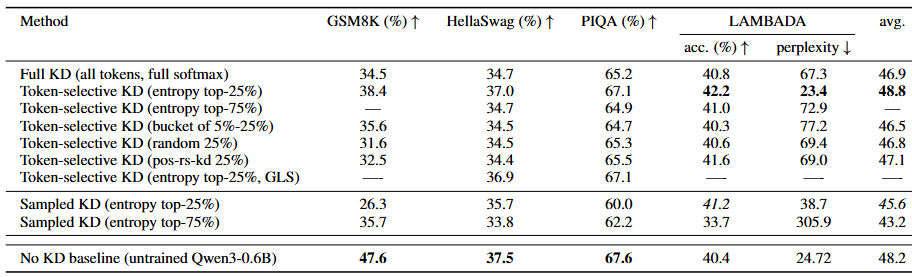
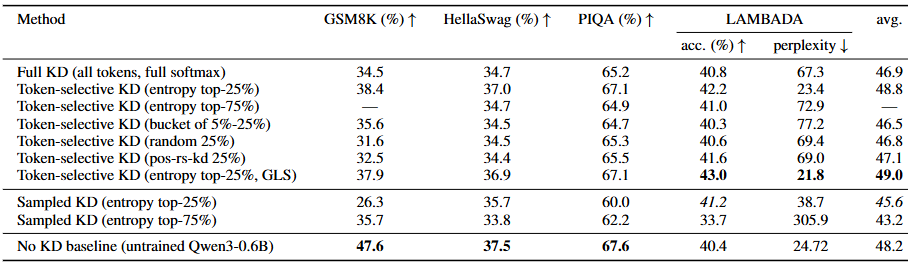
chore: update results after GLS  re-runs accuracy beat

Changed region(s): [[0.0, 0.0, 1.0, 1.0]]

diff --git a/written/nlp_paper.tex b/written/nlp_paper.tex
@@ -263,9 +263,9 @@ $A\!\leftarrow\!A+x_tx_t^\top,\; b\!\leftarrow\!b+r_tx_t$.
 If too few have been selected, we take the highest-$s_t$ tokens up to the allowed budget.
 
 \subsection{GLS (Global-Level Selection) for Position Selection}
-We maintain a global FIFO queue of recent token scores across batches.  
-At each step we set a threshold $\tau$ at the $(1-\tfrac{k\%}{100})$ percentile of this history,  
-All current positions with score $\ge\tau$ are selected; during warm-up we fall back to per-example top-$k$.  
+We maintain a global FIFO queue of recent token scores across batches.
+At each step we set a threshold $\tau$ at the $(1-\tfrac{k\%}{100})$ percentile of this history,
+All current positions with score $\ge\tau$ are selected; during warm-up we fall back to per-example top-$k$.
 This way, roughly $k\%$ of tokens are always kept, giving a stable acceptance rate and reducing variance across batches, instead of selecting top-$k$ tokens per batch.
 
 % \section{Entropy Approximation and Gumbel Trick}
@@ -282,7 +282,7 @@ We compute entropy in nats (natural logarithm) and 8-bit quantization.
 Order indices so that $u_{(1)} \geq \cdots \geq u_{(m)}$ are the top-$m$ logits.
 Define the top-$m$ log-partition and an upper bound on the full log-partition by
 \begin{align*}
-	Z_m \;           & =\; \log \sum_{j \leq m} e^{u_{(j)}},            \\
+	Z_m \;           & =\; \log \sum_{j \leq m} e^{u_{(j)}},           \\
 	Z_{\text{ub}} \; & =\; \log\Big(e^{Z_m} + (V-m)\,e^{u_{(m)}}\Big).
 \end{align*}
 i.e., pessimistically setting all tail logits to $u_{(m)}$. For $j\le m$ this yields conservative probabilities:
@@ -359,7 +359,7 @@ This yields $3.7$ TB for $N{=}10^{11}{=}100$B tokens. Compared to a vanilla RS-K
 If the selection strategy is fixed and deterministic (e.g., top-$k$ by entropy chosen offline), we can omit $\hat H$ entirely and retain only RS-KD samples at the selected positions. This slashes storage by the selection rate $k$: with $k{=}0.25$,
 \begin{align*}
 	\text{B}/\text{token} \; & =\; k \cdot U \cdot 3
-	\;=\; 0.25 \cdot 12 \cdot 3                                                               \\
+	\;=\; 0.25 \cdot 12 \cdot 3                                                              \\
 	\;                       & =\; 9~\text{B}/\text{token} \ \Longrightarrow\ 0.9~\text{TB}.
 \end{align*}
 We implemented this optimized layout, but retained the full cache for our ablations so that we can ablate different position-selection policies at training time without rebuilding the cache. The one-time offline preselection is straightforward and yields a major reduction when $k$ is small.
@@ -398,8 +398,7 @@ To address the high perplexity observed when training on longer sequences, we fu
 \subsection{Experimental setup}
 
 All experiments report pass@1 accuracy, measuring the percentage of problems solved correctly on the first attempt without sampling multiple outputs.
-We have evaluated the GLS policy with a queue size of $30K$ tokens, as reported to be optimal by the experiments of \citet{wang2021selectivekd}.
-That said, \citep{wang2021selectivekd} focused on CE-based selection, and we found that GLS was a bit less successful for entropy-based selection than batch top-k, even though the results were fairly close and might change when scaled.
+We have evaluated the GLS policy with a queue size of $30K$ tokens, as reported to be optimal by the experiments of \citet{wang2021selectivekd} (that have been focused on CE-based selection).
 \citep{wang2021selectivekd} have reported $50K$ to be successful too, which we did not test.
 
 \section{Main Results}
@@ -410,21 +409,20 @@ That said, \citep{wang2021selectivekd} focused on CE-based selection, and we fou
 	\setlength{\tabcolsep}{8pt}
 	\begin{tabular}{lcccccc}
 		\toprule
-		Method                                              & GSM8K (\%) $\uparrow$ & HellaSwag (\%) $\uparrow$ & PIQA (\%) $\uparrow$ & \multicolumn{2}{c}{LAMBADA} & avg. \\
+		Method                                     & GSM8K (\%) $\uparrow$ & HellaSwag (\%) $\uparrow$ & PIQA (\%) $\uparrow$ & \multicolumn{2}{c}{LAMBADA} & avg.                                    \\
 		\cmidrule(lr){5-6}
-        & & & & acc. (\%) $\uparrow$ & perplexity $\downarrow$ \\
+		                                           &                       &                           &                      & acc. (\%) $\uparrow$        & perplexity $\downarrow$                 \\
 		\midrule
-		Full KD (all tokens, full softmax)                  & 34.5                  & 34.7                      & 65.2                 & 40.8                    & 67.3 & 46.9 \\
-		Token-selective KD (entropy top-25\%)               & 38.4                  & 37.0                      & 67.1                 & \textbf{42.2}           & \textbf{23.4} & \textbf{48.8} \\
-		Token-selective KD (entropy top-75\%)               & ---                   & 34.7                      & 64.9                 & 41.0                    & 72.9 & --- \\
-		Token-selective KD (bucket of 5\%-25\%)             & 35.6                  & 34.5             			& 64.7                 & 40.3                    & 77.2 & 46.5 \\
-		Token-selective KD (random 25\%)                    & 31.6                  & 34.5                      & 65.3                 & 40.6                    & 69.4 & 46.8 \\
-		Token-selective KD (pos-rs-kd 25\%)                 & 32.5                  & 34.4                      & 65.5                 & 41.6           & 69.0 & 47.1 \\
-		Token-selective KD (entropy top-25\%, GLS)          & ----                  & 36.9                      & 67.1                 & ----           & ---- & ---- \\
+		Full KD (all tokens, full softmax)         & 34.5                  & 34.7                      & 65.2                 & 40.8                        & 67.3                    & 46.9          \\
+		Token-selective KD (entropy top-25\%)      & 38.4                  & 37.0                      & 67.1                 & 42.2                        & 23.4                    & 48.8          \\
+		Token-selective KD (entropy top-75\%)      & ---                   & 34.7                      & 64.9                 & 41.0                        & 72.9                    & ---           \\
+		Token-selective KD (bucket of 5\%-25\%)    & 35.6                  & 34.5                      & 64.7                 & 40.3                        & 77.2                    & 46.5          \\
+		Token-selective KD (random 25\%)           & 31.6                  & 34.5                      & 65.3                 & 40.6                        & 69.4                    & 46.8          \\
+		Token-selective KD (pos-rs-kd 25\%)        & 32.5                  & 34.4                      & 65.5                 & 41.6                        & 69.0                    & 47.1          \\
+		Token-selective KD (entropy top-25\%, GLS) & 37.9                  & 36.9                      & 67.1                 & \textbf{43.0}               & \textbf{21.8}           & \textbf{49.0} \\
 		\midrule
-		Sampled KD (entropy top-25\%)                 		& 26.3                  & 35.7                      & 60.0                 & \textit{41.2}           		 & 38.7 & \textit{45.6} \\
-		Sampled KD (entropy top-75\%)                 		& 35.7                  & 33.8                      & 62.2                 & 33.7           		 & 305.9 & 43.2 \\
-		\midrule
+		Sampled KD (entropy top-25\%)              & 26.3                  & 35.7                      & 60.0                 & \textit{41.2}               & 38.7                    & \textit{45.6} \\
+		Sampled KD (entropy top-75\%)              & 35.7                  & 33.8                      & 62.2                 & 33.7                        & 305.9                   & 43.2          \\
 		% Sampled KD (top-75\%), softmax-elim      			& 27.3                  & 31.2                      & 59.8                 & 24.5                  	 & 2029 & 38.5 \\
 		% Sampled KD (pos-rs-kd-25\%), softmax-elim			& 23.7                  & 31.4                      & 60.6                 & 23.1                  	 & 2336 & 38.4 \\
 
@@ -436,7 +434,7 @@ That said, \citep{wang2021selectivekd} focused on CE-based selection, and we fou
 		% \quad $k=25\%$, distilled on GSM8K train split      & \textbf{41.2}         & ---                       & ---                  & ---                   &---   & \\
 		% \quad LinUCB model as selector                      & 22.0                  & 27.1                      & 52.5                 & 7.6                   &---   & \\
 		\midrule
-		No KD baseline (untrained Qwen3-0.6B)               & \textbf{47.6}         & \textbf{37.5}             & \textbf{67.6}        & 40.4                    & 24.72 & 48.2\\
+		No KD baseline (untrained Qwen3-0.6B)      & \textbf{47.6}         & \textbf{37.5}             & \textbf{67.6}        & 40.4                        & 24.72                   & 48.2          \\
 		\bottomrule
 	\end{tabular}
 	\caption{Main reasoning results (zero-shot). Models are pretrained on FineWeb-Edu 4M tokens ($\sim 22K$ examples); we report pass@1 (\%) for GSM8K and HellaSwag, accuracy (\%) for PIQA and LAMBADA.
@@ -449,7 +447,7 @@ That said, \citep{wang2021selectivekd} focused on CE-based selection, and we fou
 
 \subsection{Discussion}
 \label{sec:discussion}
-We ablated token position selection for a 0.6B student across score functions (entropy and a combined score with teacher-student KL), top-$k$ and percentile rules, positional RS-KD, LinUCB and global/local selection (GLS). 
+We ablated token position selection for a 0.6B student across score functions (entropy and a combined score with teacher-student KL), top-$k$ and percentile rules, positional RS-KD, LinUCB and global/local selection (GLS).
 
 On average, token-selective KD (TSKD) matches or exceeds both full KD and the no-KD baseline, with the clearest gains on LAMBADA (accuracy and perplexity) and competitive results on PIQA and HellaSwag; math benchmark GSM8K is understandably the most challenging, since Fineweb is not a Math dataset.
 Results show non-trivial variance across selection rules, but the strongest TSKD settings are consistently better than full KD at similar compute.
@@ -505,7 +503,7 @@ We attribute the gap to: limited training budget (4M FineWeb-Edu tokens), predom
 FineWeb-Edu also mixes diverse domains, which is a poor match for math-reasoning tasks such as GSM8K, where degradation is most pronounced.
 
 \subsection{Future work}
-Other than the said enhancements (larger scale, full precision), we see several additional promising directions to close the gap for SampledKD: 
+Other than the said enhancements (larger scale, full precision), we see several additional promising directions to close the gap for SampledKD:
 (1) Curriculum learning based knowledge distillation for and stability, so that the model can gradually adapt to more challenging tasks, implemented according to token entropy; (2) a short speculative on-policy distillation phase after off-policy SampledKD---to re-balance calibration once accuracy has improved, leveraging SKD/GKD-style teacher feedback on student prefixes \citep{xu2024speculative}.
 
 From a computational perspective, each student distillation step in TSKD still requires a full softmax and significant runtime, for both the KLD and CE.
@@ -561,10 +559,10 @@ And taking \(\mathbb{E}_x\) over dataset distribution of \(x\) yields \(\mathcal
 	 & = \frac{1}{N K_{\text{pos}}}\sum_{k=1}^{K_{\text{pos}}}
 	\mathbb{E}_{t_k\sim q_{\text{pos}}}\!\left[
 		\frac{\mathrm{KL}(p_{t_k}\|s_{t_k})}{q_{\text{pos}}(t_k)}
-	\right]                                                     \\
+	\right]                                                    \\
 	 & = \frac{1}{N K_{\text{pos}}}\sum_{k=1}^{K_{\text{pos}}}
-	\sum_{t\in P_x}\mathrm{KL}(p_t\|s_t)                        \\
-	 & = \frac{1}{N}\sum_{t\in P_x}\mathrm{KL}(p_t\|s_t)        \\
+	\sum_{t\in P_x}\mathrm{KL}(p_t\|s_t)                       \\
+	 & = \frac{1}{N}\sum_{t\in P_x}\mathrm{KL}(p_t\|s_t)       \\
 	 & =\mathcal{L}_{\text{KD}}.
 \end{align*}
 
@@ -584,7 +582,7 @@ Define the total tail probability mass $P_T=\sum_{v\in T}p_v$, and $q(v)=p_v/P_T
 Decompose with the uniform tail $u=\tfrac{P_T}{V-m}$:
 \begin{align*}
 	\sum_{v\in T} p_v \log p_v
-	 & = -P_T\log\!\frac{P_T}{V-m}                                               \\
+	 & = -P_T\log\!\frac{P_T}{V-m}                                              \\
 	 & + P_T\,\underset{v\sim q}{\mathbb{E}}\!\left[\log\!\frac{p_v}{u}\right].
 \end{align*}
 Thus, the entropy tail is
@@ -596,7 +594,7 @@ Thus, the entropy tail is
 With unbiased estimator (using $s$ samples):
 \begin{align*}
 	\widehat{H}_T^{\text{CV-IS}}
-	 & = -P_T\log\!\frac{P_T}{V-m}                                                 \\
+	 & = -P_T\log\!\frac{P_T}{V-m}                                                \\
 	 & \quad - P_T \cdot \frac{1}{s}\sum_{i=1}^s \Big(\log p_{v_i} - \log u\Big).
 \end{align*}
 In all cases, the head contribution $H_{\text{head}}=-\sum_{j\le m}p_{(j)}\log p_{(j)}$ is computed exactly; the final estimate is $H=H_{\text{head}}+\widehat{H}_T$.
